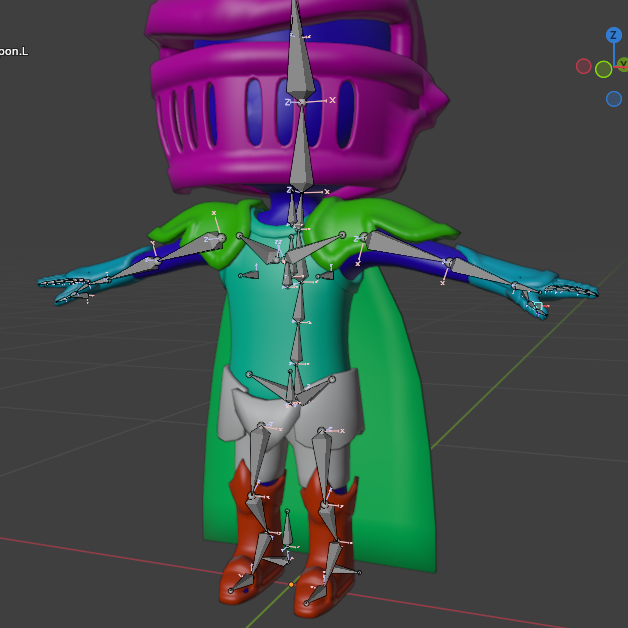
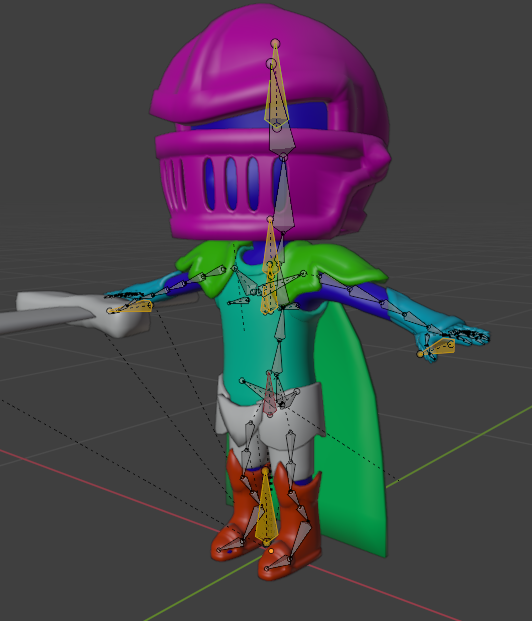
change: image for meta rig with colored sockets

diff --git a/content/devlog/polyslayer/rigging.md b/content/devlog/polyslayer/rigging.md
@@ -39,6 +39,9 @@ Da PolySlayer verschiedene Rüstungsteile unterstützt, habe ich das Standard-Ri
 
 * **Helm-Socket**
 * **Waffen-Socket**
+* **Schulter-Socket**
+* **Schuhe-Socket**
+* **Beine-Socket**
 * **Brust- & Handschuh-Sockets**
 
 Dadurch können wir Rüstungsteile später im Spiel dynamisch austauschen, während sie perfekt an der Bewegung des Skeletts haften.
